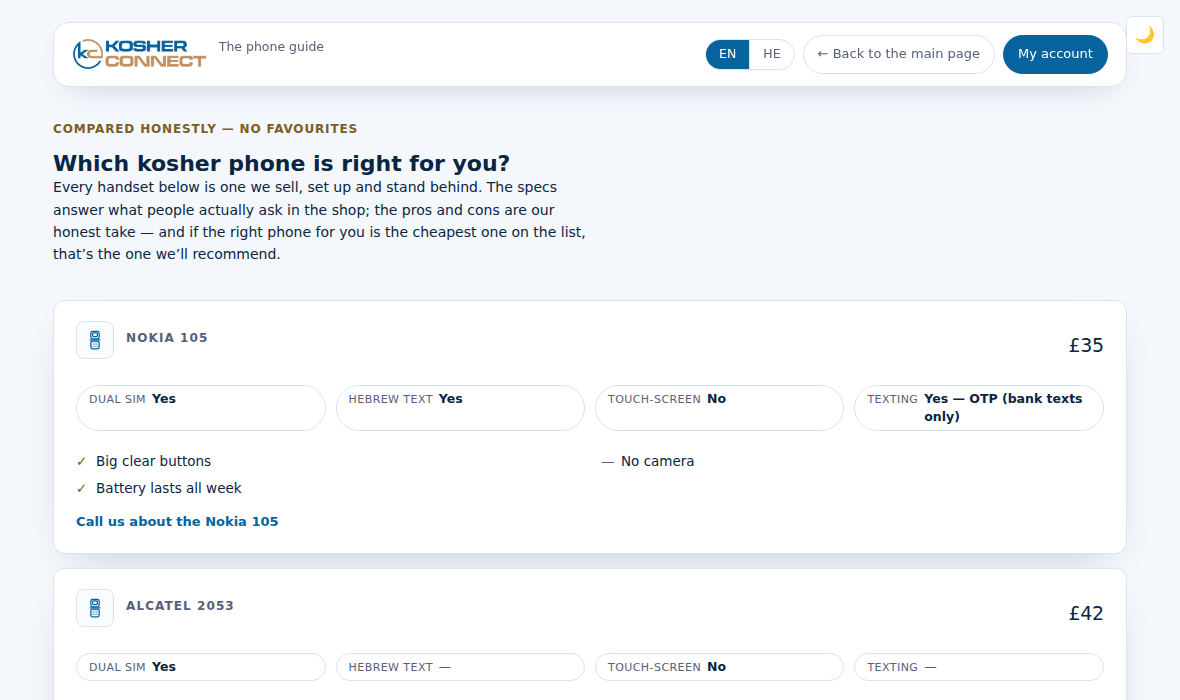
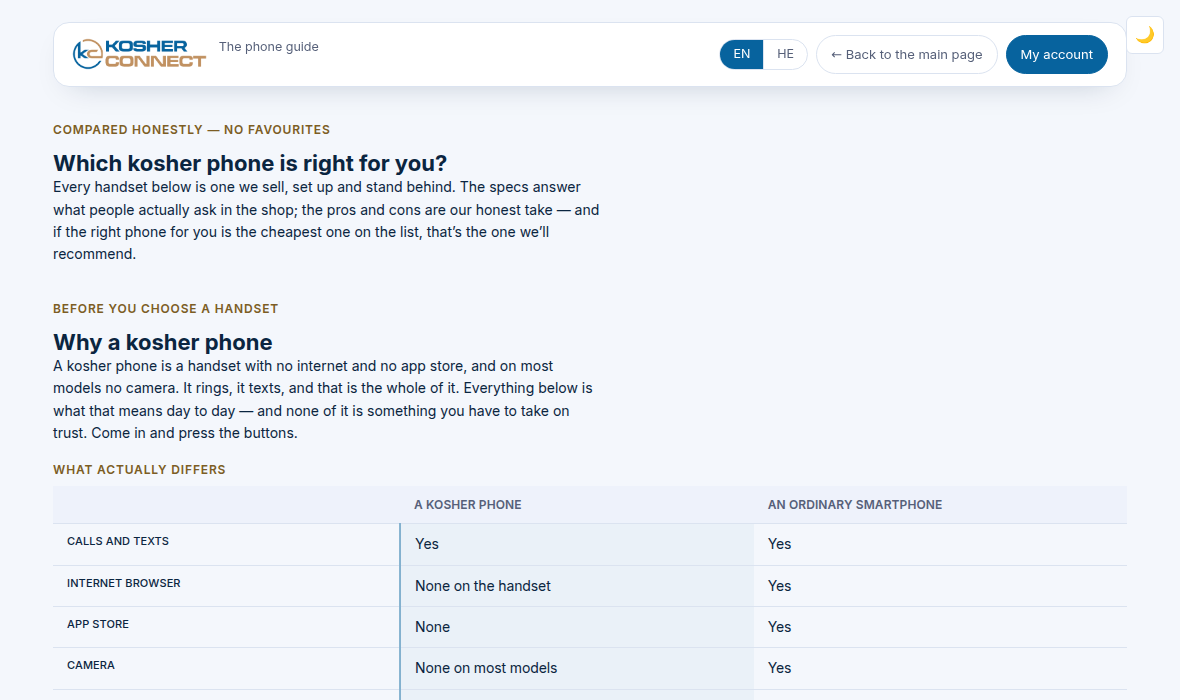
Why a kosher phone — the case, above the choice
Owner, 27 Aug: the kosher-phone marketing section, "comparison + chasidic
line-art cards".

/phone-guide answered "which one" to somebody who had already decided, and
said nothing at all to the person still deciding — which is most of the
people who arrive on it. The case for the thing now sits above the choice
between versions of it, and the models are untouched below.

A real <table>, because it is tabular and a screen reader announcing
"column 2, a kosher phone" IS the comparison working: browser, app store,
camera, bank one-time codes, Hebrew on screen, the filter that is not needed,
the battery, and what is lost with a lost phone. Every row is a fact a
customer can check in the shop in ten seconds, which is the standard's rule —
proof is cheaper than persuasion and it survives being repeated by somebody
else. No superlatives, no urgency, and it argues with nobody about how they
should live: it describes an object. The shop's own column is marked with a
hairline and full-strength ink rather than ticks and a badge.

Four scene cards under it for where the thing lands in a day — the beis
medrash, erev Shabbos, away from home, a first phone — drawn as line art in
components/kcScenes.js. Objects and places only, never people: the brand
standard treats the absence of stock photography as a decision rather than a
gap, community norms rule out the lifestyle imagery retail leans on, and a
shtender, a pair of licht, a case and a satchel carry a scene without putting
[…]

diff --git a/pages/phone-guide.js b/pages/phone-guide.js
@@ -4,6 +4,7 @@ import Head from 'next/head'
 import ThemeToggle from '../components/ThemeToggle'
 import SkipLink from '../components/SkipLink'
 import { FlipPhoneIcon } from '../components/kcIcons'
+import { SCENES } from '../components/kcScenes'
 
 // The public phone guide — every handset the shop stands behind, with price,
 // the spec facts customers actually ask about (dual SIM? Hebrew text?
@@ -28,6 +29,44 @@ const T = {
     lead1: 'Every handset below is one we sell, set up and stand behind. The specs answer what people actually ask in the shop',
     leadVerdicts: '; the pros and cons are our honest take',
     lead2: ' — and if the right phone for you is the cheapest one on the list, that’s the one we’ll recommend.',
+    // ── Why a kosher phone (owner ask, 27 Aug) ──────────────────────────
+    // Upstream of the guide below: this page answered "which one" to somebody
+    // who had already decided, and said nothing to the person still deciding.
+    //
+    // Every row of the table is a fact about the handset that a customer can
+    // check in the shop in ten seconds, which is the standard's rule — proof
+    // is cheaper than persuasion and it survives being repeated by somebody
+    // else. No superlatives, no urgency, and nothing here argues with anybody
+    // about how they should live: it describes an object.
+    whyStrap: 'Before you choose a handset',
+    whyTitle: 'Why a kosher phone',
+    whyLead: 'A kosher phone is a handset with no internet and no app store, and on most models no camera. It rings, it texts, and that is the whole of it. Everything below is what that means day to day — and none of it is something you have to take on trust. Come in and press the buttons.',
+    cmpCaption: 'What actually differs',
+    cmpCols: ['', 'A kosher phone', 'An ordinary smartphone'],
+    cmpRows: [
+      ['Calls and texts', 'Yes', 'Yes'],
+      ['Internet browser', 'None on the handset', 'Yes'],
+      ['App store', 'None', 'Yes'],
+      ['Camera', 'None on most models', 'Yes'],
+      ['Bank one-time codes', 'On some models — bank texts only', 'Yes'],
+      ['Hebrew on screen', 'On some models', 'Yes'],
+      ['A filter to set up and keep working', 'Not needed', 'Yes, and it needs maintaining'],
+      ['Battery between charges', 'Days', 'About a day'],
+      ['If it is lost', 'A phone number', 'A phone number, and everything on it'],
+    ],
+    cmpNote: 'Models differ, and the guide below says which is which for each handset. Not sure? Ring us and tell us who the phone is for.',
+    livesTitle: 'Where it fits',
+    lives: [
+      { icon: 'shtender', title: 'In the beis medrash',
+        body: 'It sits in a pocket and does nothing until somebody rings. Home can reach him; the phone cannot reach him with anything else.' },
+      { icon: 'licht', title: 'Erev Shabbos',
+        body: 'Nothing on it to put away — no downloads finishing, no notifications waiting. It goes in the drawer the way a phone used to.' },
+      { icon: 'case', title: 'Away from home',
+        body: 'Abroad, a phone has one job: work when you land. A kosher handset does that, and the line to go with it is what we rent.' },
+      { icon: 'satchel', title: 'A first phone',
+        body: 'A child can ring home and be reached. There is nothing else on it, so there is nothing for a parent to police.' },
+    ],
+    livesFoot: 'The handsets are below, with the price and the specs for each.',
     loading: 'Loading the guide…',
     empty1: 'The guide is being written — call us on', empty2: 'and we’ll talk you through the options.',
     specs: { dualSim: 'Dual SIM', yiddishText: 'Hebrew text', touchScreen: 'Touch-screen', texting: 'Texting' },
@@ -52,6 +91,38 @@ const T = {
     lead1: 'המכשירים שמופיעים כאן הם אלו שאנחנו מוכרים, מגדירים ולוקחים עליהם אחריות. המפרט עונה על השאלות שלקוחות שואלים אותנו בחנות',
     leadVerdicts: '; היתרונות והחסרונות משקפים את דעתנו הכנה',
     lead2: ' — ואם הטלפון שהכי מתאים לכם הוא הזול ביותר ברשימה, זה בדיוק המכשיר שעליו נמליץ.',
+    // The Hebrew of this section is a first pass and is worth a native eye
+    // before it is treated as settled — the rest of the page's Hebrew came
+    // back revised from the owner's own document (task #43).
+    whyStrap: 'לפני שבוחרים מכשיר',
+    whyTitle: 'למה טלפון כשר',
+    whyLead: 'טלפון כשר הוא מכשיר בלי אינטרנט ובלי חנות אפליקציות, וברוב הדגמים גם בלי מצלמה. הוא מצלצל, הוא שולח הודעות, וזהו. כל מה שכתוב למטה הוא מה שזה אומר ביום-יום — ואין כאן שום דבר שצריך להאמין לנו עליו. בואו לחנות ותלחצו על הכפתורים.',
+    cmpCaption: 'מה באמת שונה',
+    cmpCols: ['', 'טלפון כשר', 'סמארטפון רגיל'],
+    cmpRows: [
+      ['שיחות והודעות', 'כן', 'כן'],
+      ['דפדפן אינטרנט', 'אין במכשיר', 'יש'],
+      ['חנות אפליקציות', 'אין', 'יש'],
+      ['מצלמה', 'אין ברוב הדגמים', 'יש'],
+      ['קודים חד-פעמיים מהבנק', 'בחלק מהדגמים — הודעות מהבנק בלבד', 'יש'],
+      ['עברית על המסך', 'בחלק מהדגמים', 'יש'],
+      ['סינון שצריך להתקין ולתחזק', 'לא נדרש', 'נדרש, וצריך לתחזק אותו'],
+      ['סוללה בין טעינות', 'כמה ימים', 'בערך יום'],
+      ['אם המכשיר אובד', 'מספר טלפון', 'מספר טלפון, וכל מה שהיה עליו'],
+    ],
+    cmpNote: 'הדגמים שונים זה מזה, והמדריך שלמטה מפרט לכל מכשיר מה יש בו. מתלבטים? התקשרו וספרו לנו למי הטלפון מיועד.',
+    livesTitle: 'איפה זה משתלב',
+    lives: [
+      { icon: 'shtender', title: 'בבית המדרש',
+        body: 'המכשיר יושב בכיס ולא עושה כלום עד שמישהו מצלצל. מהבית אפשר להשיג אותו; שום דבר אחר לא מגיע אליו.' },
+      { icon: 'licht', title: 'ערב שבת',
+        body: 'אין מה לסדר לפני ההדלקה — אין הורדות שמסתיימות ואין התראות שממתינות. המכשיר נכנס למגירה כמו שטלפון נהג פעם.' },
+      { icon: 'case', title: 'הרחק מהבית',
+        body: 'בחו״ל לטלפון יש תפקיד אחד: לעבוד ברגע שנוחתים. מכשיר כשר עושה את זה, והקו שמלווה אותו הוא מה שאנחנו משכירים.' },
+      { icon: 'satchel', title: 'טלפון ראשון',
+        body: 'ילד יכול לצלצל הביתה ואפשר להשיג אותו. אין על המכשיר שום דבר אחר, ולכן אין להורה על מה לפקח.' },
+    ],
+    livesFoot: 'המכשירים עצמם מופיעים למטה, עם המחיר והמפרט של כל אחד.',
     loading: 'המדריך נטען…',
     empty1: 'המדריך נמצא כעת בכתיבה — התקשרו אלינו:', empty2: 'ונעבור איתכם על האפשרויות.',
     specs: { dualSim: 'סים כפול (Dual SIM)', yiddishText: 'תמיכה בעברית', touchScreen: 'מסך מגע', texting: 'הודעות SMS' },
@@ -163,6 +234,62 @@ export default function PhoneGuide() {
                 {t.lead1}{hasVerdicts && t.leadVerdicts}{t.lead2}
               </p>
             )}
+          </section>
+
+          {/* The case for the thing, before the choice between versions of it.
+              A table and four cards: the table is the checkable difference, the
+              cards are where it lands in a day. Both sit ABOVE the models,
+              because somebody who already knows they want one scrolls past in
+              a second and somebody who does not would otherwise have been shown
+              a price list as an answer to a question they had not asked. */}
+          <section className="w-section pg-why" aria-labelledby="pg-why-h">
+            <div className="w-strap">{t.whyStrap}</div>
+            <h2 className="w-page-title w-show" id="pg-why-h">{t.whyTitle}</h2>
+            <p className="w-lead">{t.whyLead}</p>
+
+            {/* A real <table> with a real <caption>: this IS tabular data, and
+                a screen reader announcing "column 2, A kosher phone" is the
+                whole comparison working. On a narrow screen it scrolls inside
+                its own box rather than pushing the page sideways. */}
+            <div className="pg-cmp-scroll">
+              <table className="pg-cmp">
+                <caption>{t.cmpCaption}</caption>
+                <thead>
+                  <tr>
+                    {t.cmpCols.map((c, i) => (
+                      <th key={i} scope="col" className={i === 0 ? 'pg-cmp-what' : ''}>
+                        {c || <span className="w-sr">{t.cmpCaption}</span>}
+                      </th>
+                    ))}
+                  </tr>
+                </thead>
+                <tbody>
+                  {t.cmpRows.map((row, i) => (
+                    <tr key={i}>
+                      <th scope="row">{row[0]}</th>
+                      <td className="pg-cmp-ours">{row[1]}</td>
+                      <td>{row[2]}</td>
+                    </tr>
+                  ))}
+                </tbody>
+              </table>
+            </div>
+            <p className="pg-cmp-note">{t.cmpNote}</p>
+
+            <h3 className="pg-lives-h">{t.livesTitle}</h3>
+            <div className="pg-lives">
+              {t.lives.map((l, i) => {
+                const Scene = SCENES[l.icon]
+                return (
+                  <article className="w-card pg-life" key={`${lang}-l${i}`}>
+                    <div className="pg-life-art" aria-hidden="true">{Scene ? <Scene /> : null}</div>
+                    <h4>{l.title}</h4>
+                    <p>{l.body}</p>
+                  </article>
+                )
+              })}
+            </div>
+            <p className="pg-cmp-note">{t.livesFoot}</p>
           </section>
 
           <section className="w-section pg-list-wrap" aria-label="Phone models">

diff --git a/styles/globals.css b/styles/globals.css
@@ -1435,3 +1435,79 @@ html { scroll-behavior: smooth; }
 .kc-skip:focus { transform: translateY(0); }
 .kc-skip:focus-visible { outline: 2px solid var(--text); outline-offset: -4px; }
 @media (prefers-reduced-motion: reduce) { .kc-skip { transition: none; } }
+
+/* ─── Why a kosher phone (/phone-guide) ───
+   The case for the thing, above the choice between versions of it. A real
+   table because it IS tabular — a screen reader announcing "column 2, a kosher
+   phone" is the comparison working — and four scene cards under it. */
+
+/* Off-screen for the eye, present for a screen reader. The staff app has
+   .kc-sr-only in app.css, which the public shell never loads; this is the
+   public pages' own copy. clip-path, not the deprecated clip. */
+.w-sr {
+  position: absolute; width: 1px; height: 1px;
+  margin: -1px; padding: 0; border: 0; overflow: hidden;
+  clip-path: inset(50%); white-space: nowrap;
+}
+
+/* The table scrolls inside its own box. The page body must never scroll
+   sideways, and three columns of prose will not fit a 320px screen. */
+.pg-cmp-scroll { overflow-x: auto; margin: 4px 0 10px; }
+.pg-cmp {
+  width: 100%; border-collapse: collapse;
+  font-size: var(--fs-ui); min-width: 30rem;
+}
+.pg-cmp caption {
+  text-align: start; caption-side: top;
+  font-size: var(--fs-small); font-weight: 600;
+  letter-spacing: 0.07em; text-transform: uppercase;
+  color: var(--gold); padding-bottom: 8px;
+}
+.pg-cmp th, .pg-cmp td {
+  text-align: start; vertical-align: top;
+  padding: 10px 14px; border-bottom: 1px solid var(--border-subtle);
+}
+.pg-cmp thead th {
+  font-size: var(--fs-small); font-weight: 600; color: var(--muted);
+  border-bottom: 1px solid var(--border);
+  /* The head row is short; a long column label wrapping mid-phrase reads as
+     two headings. */
+  white-space: nowrap;
+}
+.pg-cmp tbody th { font-weight: 500; color: var(--text); }
+.pg-cmp td { color: var(--ink-secondary); }
+/* Our own column, marked without a badge or a tick: a hairline down its edge
+   and the ink at full strength is enough to say which side of the table the
+   shop is on, and it does not read as a sales device. */
+.pg-cmp .pg-cmp-ours {
+  color: var(--text);
+  border-inline-start: 2px solid color-mix(in srgb, var(--accent) 45%, transparent);
+  background: color-mix(in srgb, var(--accent) 4%, transparent);
+}
+.pg-cmp tbody tr:last-child th, .pg-cmp tbody tr:last-child td { border-bottom: 0; }
+.pg-cmp-note {
+  margin: 0 0 4px; color: var(--muted);
+  font-size: var(--fs-small); line-height: 1.6; max-width: 62ch;
+}
+
+.pg-lives-h { margin: 26px 0 12px; font-size: var(--fs-title); color: var(--text); font-weight: 600; }
+/* Two, then four — never auto-fit. Four cards in a three-column grid leave one
+   stranded on its own row, which reads as a card that did not load rather than
+   as a set. Counted columns cannot do that. */
+.pg-lives {
+  display: grid; gap: 14px; margin-bottom: 14px;
+  grid-template-columns: repeat(2, minmax(0, 1fr));
+}
+@media (max-width: 34rem) { .pg-lives { grid-template-columns: 1fr; } }
+@media (min-width: 62rem) { .pg-lives { grid-template-columns: repeat(4, minmax(0, 1fr)); } }
+.pg-life { padding: 20px 22px; }
+.pg-life-art {
+  color: var(--accent);
+  /* The mark is decoration and the heading under it is the label, so it takes
+     a lighter ink than the words — a full-strength drawing at 56px would
+     outweigh the sentence it introduces. */
+  opacity: 0.85;
+  margin-bottom: 10px;
+}
+.pg-life h4 { margin: 0 0 6px; font-size: var(--fs-ui); font-weight: 600; color: var(--text); }
+.pg-life p { margin: 0; color: var(--ink-secondary); font-size: var(--fs-small); line-height: 1.6; }

diff --git a/components/kcScenes.js b/components/kcScenes.js
@@ -1,0 +1,87 @@
+// Line-art scene marks for the public pages.
+//
+// Owner, 27 Aug, on the kosher-phone section: a comparison "with chasidic
+// line-art cards". Separate from kcIcons.js on purpose — that file is a 24-grid
+// icon family with a stated contract (20px, 1.5 stroke, one glyph per idea) and
+// these are illustrations: a 48-grid, a lighter line, and a whole small scene
+// rather than a symbol.
+//
+// Drawn rather than photographed because the brand standard treats that as a
+// decision and not a gap: community norms around imagery rule out the
+// lifestyle photography retail leans on, so typography, flat colour and
+// instrument marks do the work. These are objects and places — a shtender, a
+// pair of candlesticks, a case, a satchel — with no people in them. The scene
+// is carried by what is in it, which is also the only way to draw this without
+// putting a face on a page where a face would be wrong.
+//
+// currentColor throughout, so a card decides the ink and both themes come out
+// right with no second palette.
+
+const scene = {
+  width: 56, height: 56, viewBox: '0 0 48 48', fill: 'none',
+  stroke: 'currentColor', strokeWidth: 1.35,
+  strokeLinecap: 'round', strokeLinejoin: 'round', 'aria-hidden': true,
+}
+
+// A shtender with an open sefer on it — the beis medrash.
+export const ShtenderScene = (p) => (
+  <svg {...scene} {...p}>
+    {/* the open sefer, two leaves meeting at the spine */}
+    <path d="M24 13.5c-2.6-1.9-5.6-2.6-8.6-2.6v9.9c3 0 6 .7 8.6 2.6" />
+    <path d="M24 13.5c2.6-1.9 5.6-2.6 8.6-2.6v9.9c-3 0-6 .7-8.6 2.6" />
+    <path d="M24 13.5v9.9" />
+    {/* the sloped top it rests on */}
+    <path d="M13.4 21.6h21.2l1.6 4.2H11.8z" />
+    {/* the column and the foot */}
+    <path d="M20.6 25.8v13.4M27.4 25.8v13.4" />
+    <path d="M16.8 39.2h14.4" />
+  </svg>
+)
+
+// Two licht in their leuchters — erev Shabbos, at home.
+export const LichtScene = (p) => (
+  <svg {...scene} {...p}>
+    {[18, 30].map((x) => (
+      <g key={x}>
+        {/* flame */}
+        <path d={`M${x} 8.5c1.9 1.7 2.8 3.2 2.8 4.6a2.8 2.8 0 0 1-5.6 0c0-1.4.9-2.9 2.8-4.6z`} />
+        {/* candle, cup, stem, foot */}
+        <path d={`M${x - 1.7} 16.8v6.4h3.4v-6.4`} />
+        <path d={`M${x - 3.6} 23.2h7.2l-1.5 2.9h-4.2z`} />
+        <path d={`M${x} 26.1v10.2`} />
+        <path d={`M${x - 4.4} 36.3h8.8`} />
+      </g>
+    ))}
+    {/* the cloth they stand on */}
+    <path d="M9 39.6h30" />
+  </svg>
+)
+
+// A case with its handle and a luggage tag — away from home.
+export const CaseScene = (p) => (
+  <svg {...scene} {...p}>
+    <path d="M18.5 12.5v-2.2a2 2 0 0 1 2-2h7a2 2 0 0 1 2 2v2.2" />
+    <rect x="9.5" y="12.5" width="29" height="24" rx="3" />
+    <path d="M17.5 12.5v24M30.5 12.5v24" />
+    <path d="M14.5 36.5v3M33.5 36.5v3" />
+    {/* the tag on the handle */}
+    <path d="M29.5 10.3h4.6l1.8 2.3-1.8 2.3h-4.6z" />
+  </svg>
+)
+
+// A satchel with its strap and buckles — a first phone, for school.
+export const SatchelScene = (p) => (
+  <svg {...scene} {...p}>
+    <path d="M15 17.5c0-4.4 4-8 9-8s9 3.6 9 8" />
+    <path d="M11.5 17.5h25a2 2 0 0 1 2 2v16a3 3 0 0 1-3 3h-23a3 3 0 0 1-3-3v-16a2 2 0 0 1 2-2z" />
+    <path d="M11.5 17.5v7.6c0 .9.8 1.6 1.7 1.6h21.6c.9 0 1.7-.7 1.7-1.6v-7.6" />
+    <path d="M19.5 26.7v3.1M28.5 26.7v3.1" />
+  </svg>
+)
+
+export const SCENES = {
+  shtender: ShtenderScene,
+  licht: LichtScene,
+  case: CaseScene,
+  satchel: SatchelScene,
+}

diff --git a/docs/MANUAL.md b/docs/MANUAL.md
@@ -11,7 +11,7 @@ BUSINESS_RULES.md and in Settings, never here, so there is only ever one price
 list.
 
 **30 of 30 screens written out in full.**
-*As of 28 Aug 2026 · m-07440734 — the code changes whenever the words do, so a printout can be checked against this line.*
+*As of 28 Aug 2026 · m-ee66d1ab — the code changes whenever the words do, so a printout can be checked against this line.*
 
 ---
 
@@ -789,6 +789,7 @@ Every handset the shop sells and stands behind, compared honestly, for the custo
 
 **On the screen**
 
+- **Why a kosher phone** — The case for the thing, above the choice between versions of it. A table of what actually differs from an ordinary smartphone — browser, app store, camera, bank codes, the filter that is not needed, the battery, and what is lost with the phone — and four drawn cards for where it fits in a day. Every row is a fact a customer can check in the shop in ten seconds, which is the point: the page is not arguing, it is describing. This part is written in the page and does not come from Settings.
 - **The handsets** — Each phone with its price and the facts people actually ask at the counter — whether it takes two SIMs, whether it does Hebrew, whether it texts, whether the screen is a touch screen.
 - **The owner's own pros and cons** — Written by the shop, not lifted from a brochure. It is the honest comparison the counter conversation would give.
 - **English / lashon hakodesh** — The page chrome turns over with the language choice shared across the public pages.
@@ -796,6 +797,7 @@ Every handset the shop sells and stands behind, compared honestly, for the custo
 **Rules that bite here**
 
 - The content comes from the phone guide in Settings. Adding a handset or correcting a price is a change the shop makes itself, with no code change and no waiting.
+- The drawings are objects and places — a shtender, licht, a case, a satchel — and never people. That is a decision, not a limitation: community norms rule out the lifestyle photography retail leans on, so the line art carries the scene instead, and it is drawn in the shop's own hand rather than bought in.
 - It is a comparison, not a sales page. The honest note about a handset's weakness is the reason a customer trusts the rest of it.
 
 **When it goes wrong**
